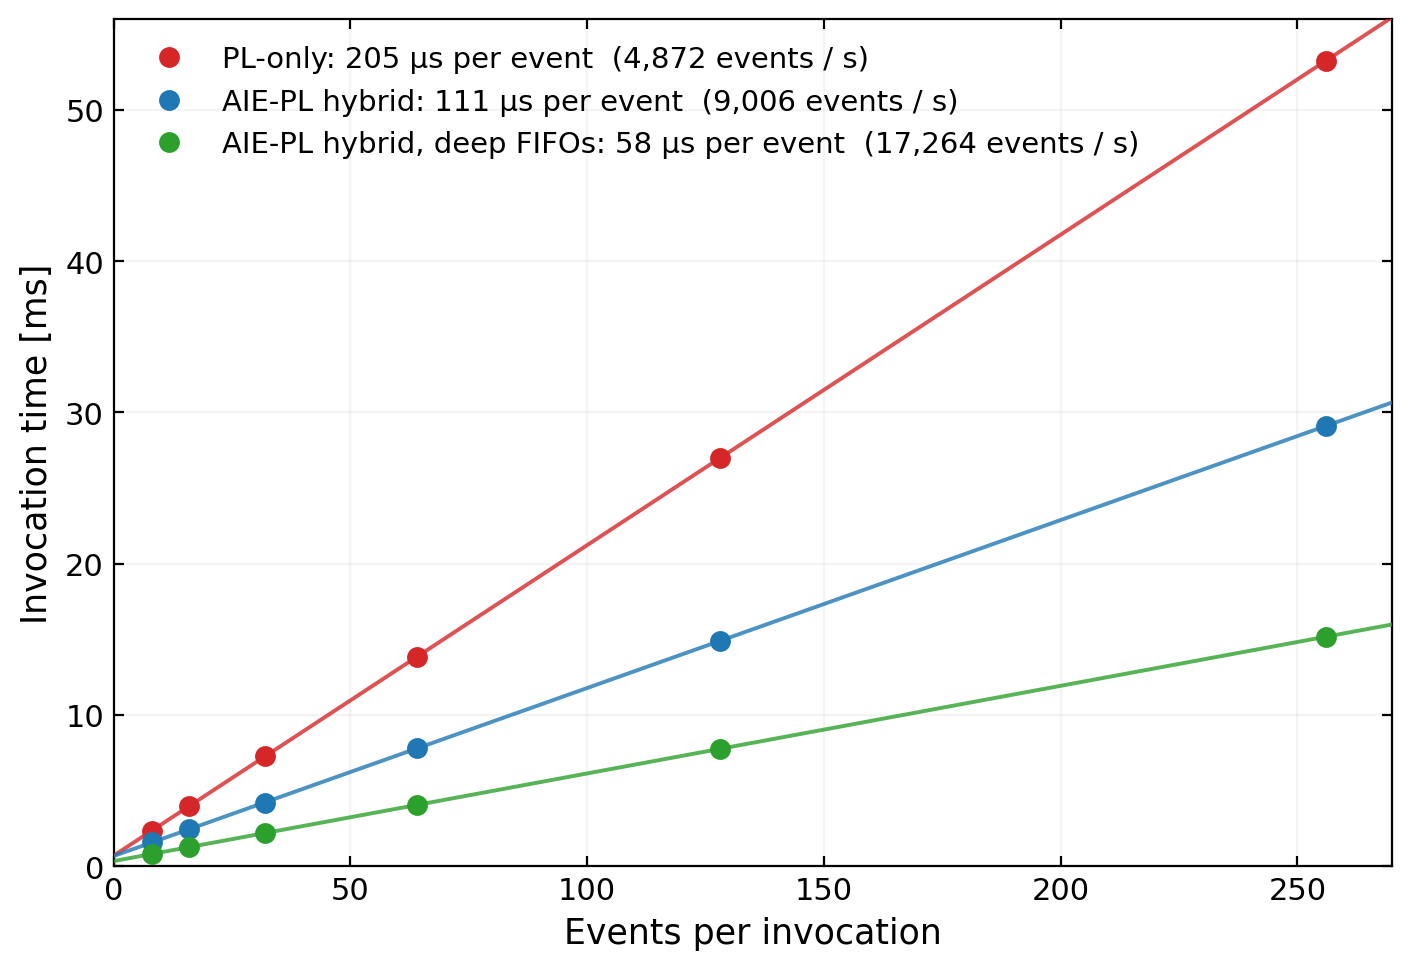
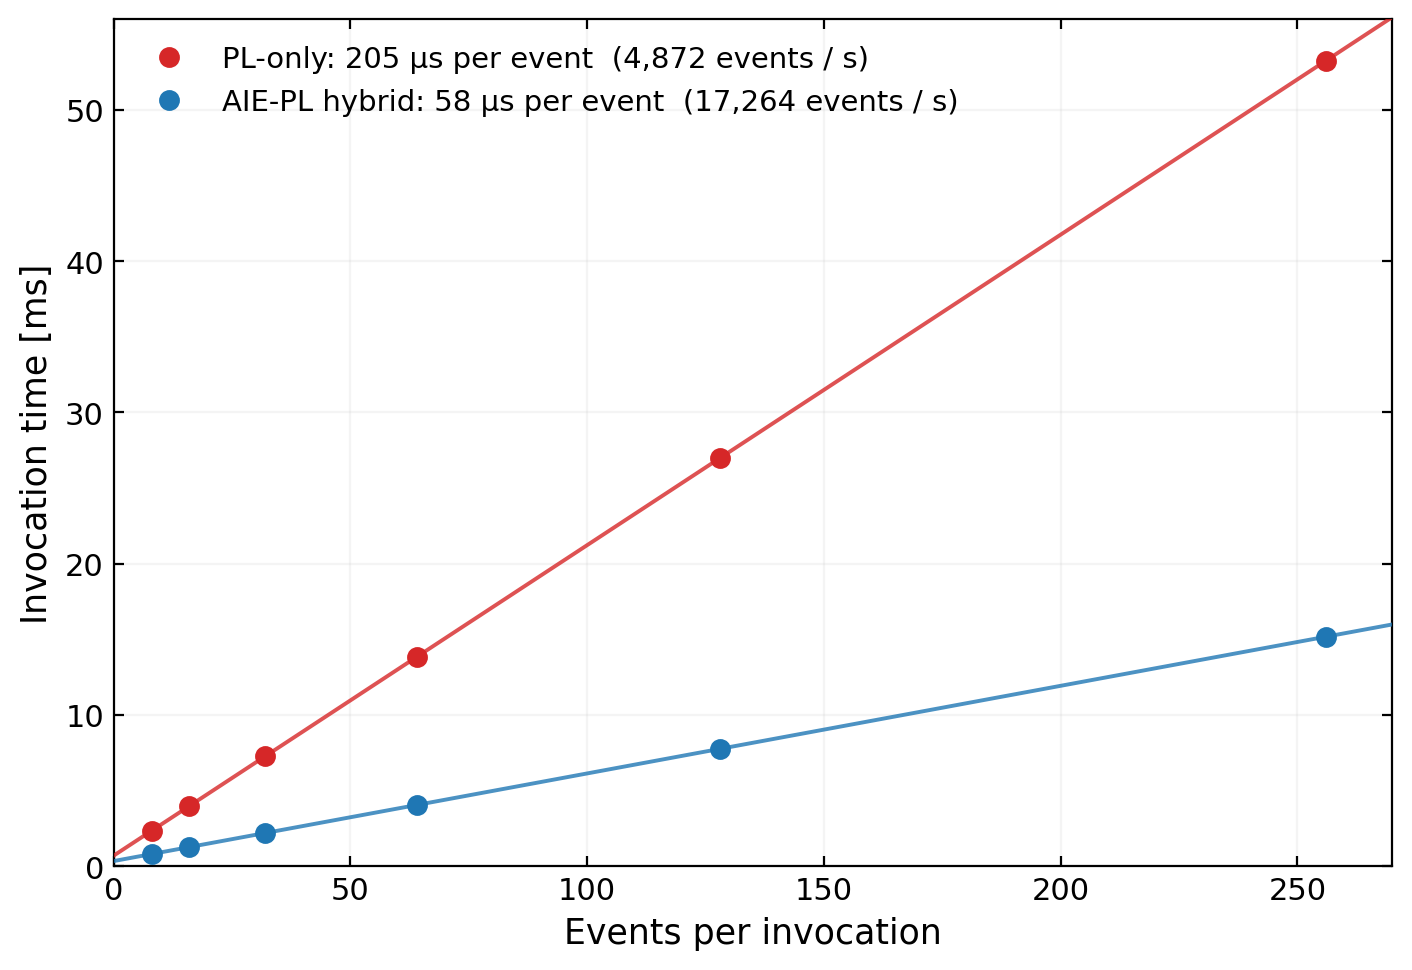
perf: with the fast kernels the FIFO depth stops mattering
Rebuilding the shallow-FIFO pipelined hybrid on the new kernels gives 57.9
us/event -- the same as the deep-FIFO build. The full square:

                     shallow FIFOs   deep FIFOs
  float layer norm      111.0           57.9
  vector integer LN      57.9           57.9

So the 1.92x that deeper FIFOs bought earlier was compensating for a slow AI
Engine stage, not adding headroom of its own. With both fixed the floor is
the PL embedding stage at 59 us.

The latency figure now shows the two designs that matter, PL-only and the
hybrid; the buffering result belongs in the text.

diff --git a/scripts/make_latency_and_stage_charts.py b/scripts/make_latency_and_stage_charts.py
@@ -18,14 +18,15 @@ PLC, AIEC, AIE_DARK, INK = "#e8d9a0", "#a9cdea", "#5b8fc9", "#1a1a1a"
 SWEEP = {
     "PL-only": [(1,0.90110),(2,1.10842),(4,1.51807),(8,2.33875),(16,3.98148),
                 (32,7.26646),(64,13.83435),(128,26.96866),(256,53.24013)],
-    "AIE-PL hybrid": [(1,0.81523),(2,0.87427),(4,1.02259),(8,1.59751),(16,2.43396),
-                      (32,4.14259),(64,7.83402),(128,14.90631),(256,29.08464)],
-    # same hybrid with every inter-stage FIFO tripled (~6 events of slack), and the
-    # vector integer layer norm in the AI Engine kernels, 2026-09-08
-    "AIE-PL hybrid, deep FIFOs": [(1,0.39245),(2,0.45408),(4,0.56998),(8,0.80148),(16,1.26358),
+    # cross-event pipelined hybrid with the vector integer layer norm, 2026-09-09.
+    # Its FIFO depth no longer matters: shallow and deep both give 57.9 us/event
+    # (shallow 0.39223..15.16503 ms). With the earlier float layer norm the same
+    # two builds gave 111.0 and 57.9 us -- the deeper FIFOs were compensating for
+    # a slow AI Engine stage, and once that stage is fast the buffering is idle.
+    "AIE-PL hybrid": [(1,0.39245),(2,0.45408),(4,0.56998),(8,0.80148),(16,1.26358),
                       (32,2.19175),(64,4.04537),(128,7.75214),(256,15.16611)],
 }
-COL = {"PL-only": PL_C, "AIE-PL hybrid": AIE_C, "AIE-PL hybrid, deep FIFOs": "#2ca02c"}
+COL = {"PL-only": PL_C, "AIE-PL hybrid": AIE_C}
 NMIN = 8
 
 # ---- (b),(c) per-stage costs, SAME rows in both panels ------------------------
@@ -100,7 +101,7 @@ for yy, p, a in zip(y, hp, ha):
 # hybrid panel: the deep-FIFO build's interval (the pipeline with enough buffering
 # for its stages to overlap). With the vector integer layer norm the AI Engine
 # compute is well under the interval and the PL embedding stage sets the rate.
-for ax, meas, letter in ((axb, fits["PL-only"], "(a)"), (axc, fits["AIE-PL hybrid, deep FIFOs"], "(b)")):
+for ax, meas, letter in ((axb, fits["PL-only"], "(a)"), (axc, fits["AIE-PL hybrid"], "(b)")):
     ax.axvline(meas, color="#c0392b", ls="--", lw=1.6, zorder=5)
     ax.text(meas, len(labs) - 0.35, f"  Measured interval, {meas:.0f} µs", color="#c0392b",
             fontsize=9.5, va="top", ha="left")
